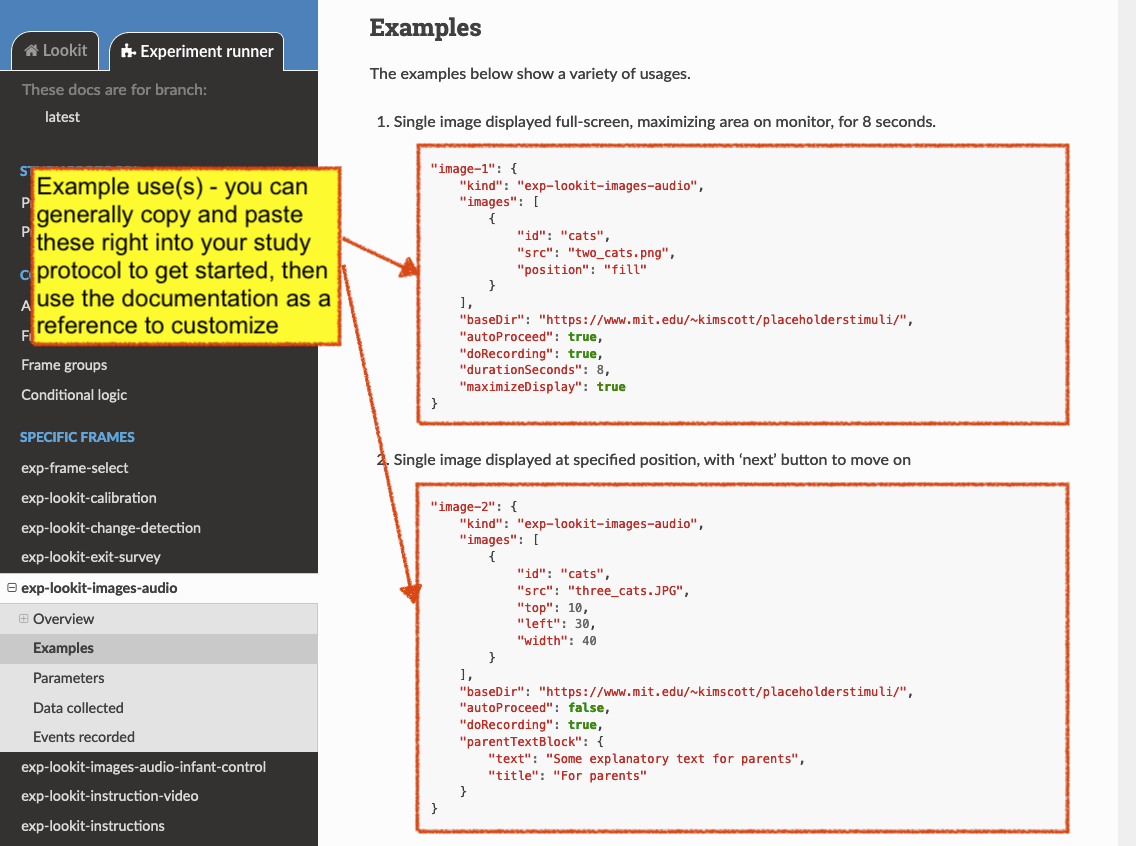
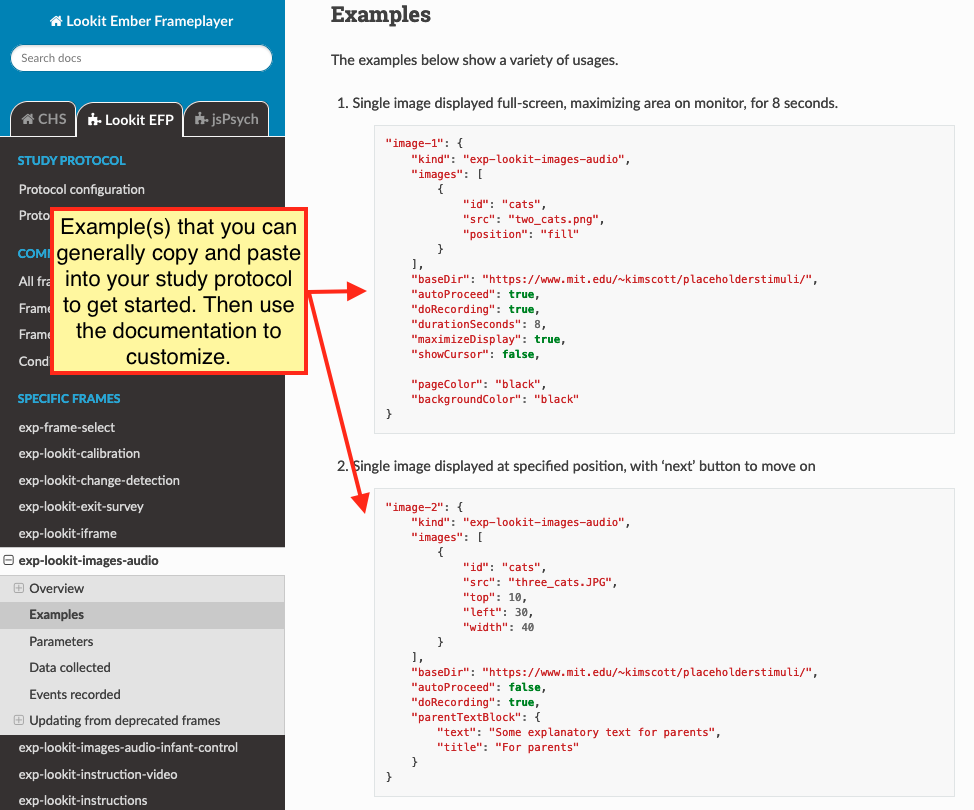
update frame docs screenshots and minor text edits

Changed region(s): [[0.0, 0.0, 0.9548, 1.0]]

diff --git a/docs/source/tutorial-lookit/tutorial-first-study.rst b/docs/source/tutorial-lookit/tutorial-first-study.rst
@@ -552,7 +552,7 @@ Each frame you define on Lookit has to have a property called ``kind`` which say
 * the ``storybook-causal`` frame has kind ``group`` (this is a special kind of frame, documented :ref:`here <elf:frame groups>`)
 * the frames **within** the ``storybook-causal`` frame have kind ``exp-lookit-images-audio`` (this is added to each frame in the ``frameList`` as part of the ``commonFrameProperties``)
 
-In addition to this tutorial and the information in this documentation about how to set up a Lookit study on CHS, there is detailed information available about each of the "frames" you can use in your Lookit study. In the :ref:`experiment runner docs <elf:index>` you can browse the options and learn about options for customizing each type of frame.
+In addition to this tutorial and the information in this documentation about how to set up a Lookit study on CHS, there is detailed information available about each of the "frames" you can use in your Lookit study. In the :ref:`Lookit Frameplayer documentation <elf:index>` you can browse the frame options and learn about the parameters for customizing each type of frame.
 
 Let's take a look at the ``exp-lookit-images-audio`` documentation to see what options we have. Find it on the left sidebar and click on it. Here's what you'll see:
 
@@ -569,9 +569,9 @@ The final three sections are "Parameters," "Data collected," and "Events recorde
 .. image:: ../_static/img/tutorial/frame_doc_3.png
     :alt: Annotated frame documentation page - methods, properties, events
 
-Click on "Parameters" to see all the properties we can add to the frame definition in our protocol. You'll see that some of the things we can set are "audio," "autoProceed," "doRecording," "durationSeconds," "images," "parentTextBlock," and "showProgressBar." Each one includes an explanation of what it does and what format its value needs to be in.
+Click on "Parameters" to see all the properties we can add to the "exp-lookit-images-audio" frame. You'll see that some of the things we can set are "audio," "autoProceed," "doRecording," "durationSeconds," "images," "parentTextBlock," and "showProgressBar." Each one includes an explanation of what it does, what format its value needs to be in, and what the default value is (if there is one).
 
-Let's try changing the value of "autoProceed" on all our storybook pages. To do that we can change it within the "commonFrameProperties" in our study protocol:
+Let's try changing the value of "autoProceed" on all our storybook pages. To do that we can, find the "storybook-casual" object inside "frames", then "commonFrameProperties", then "autoProceed":
 
 .. code-block:: none
 
